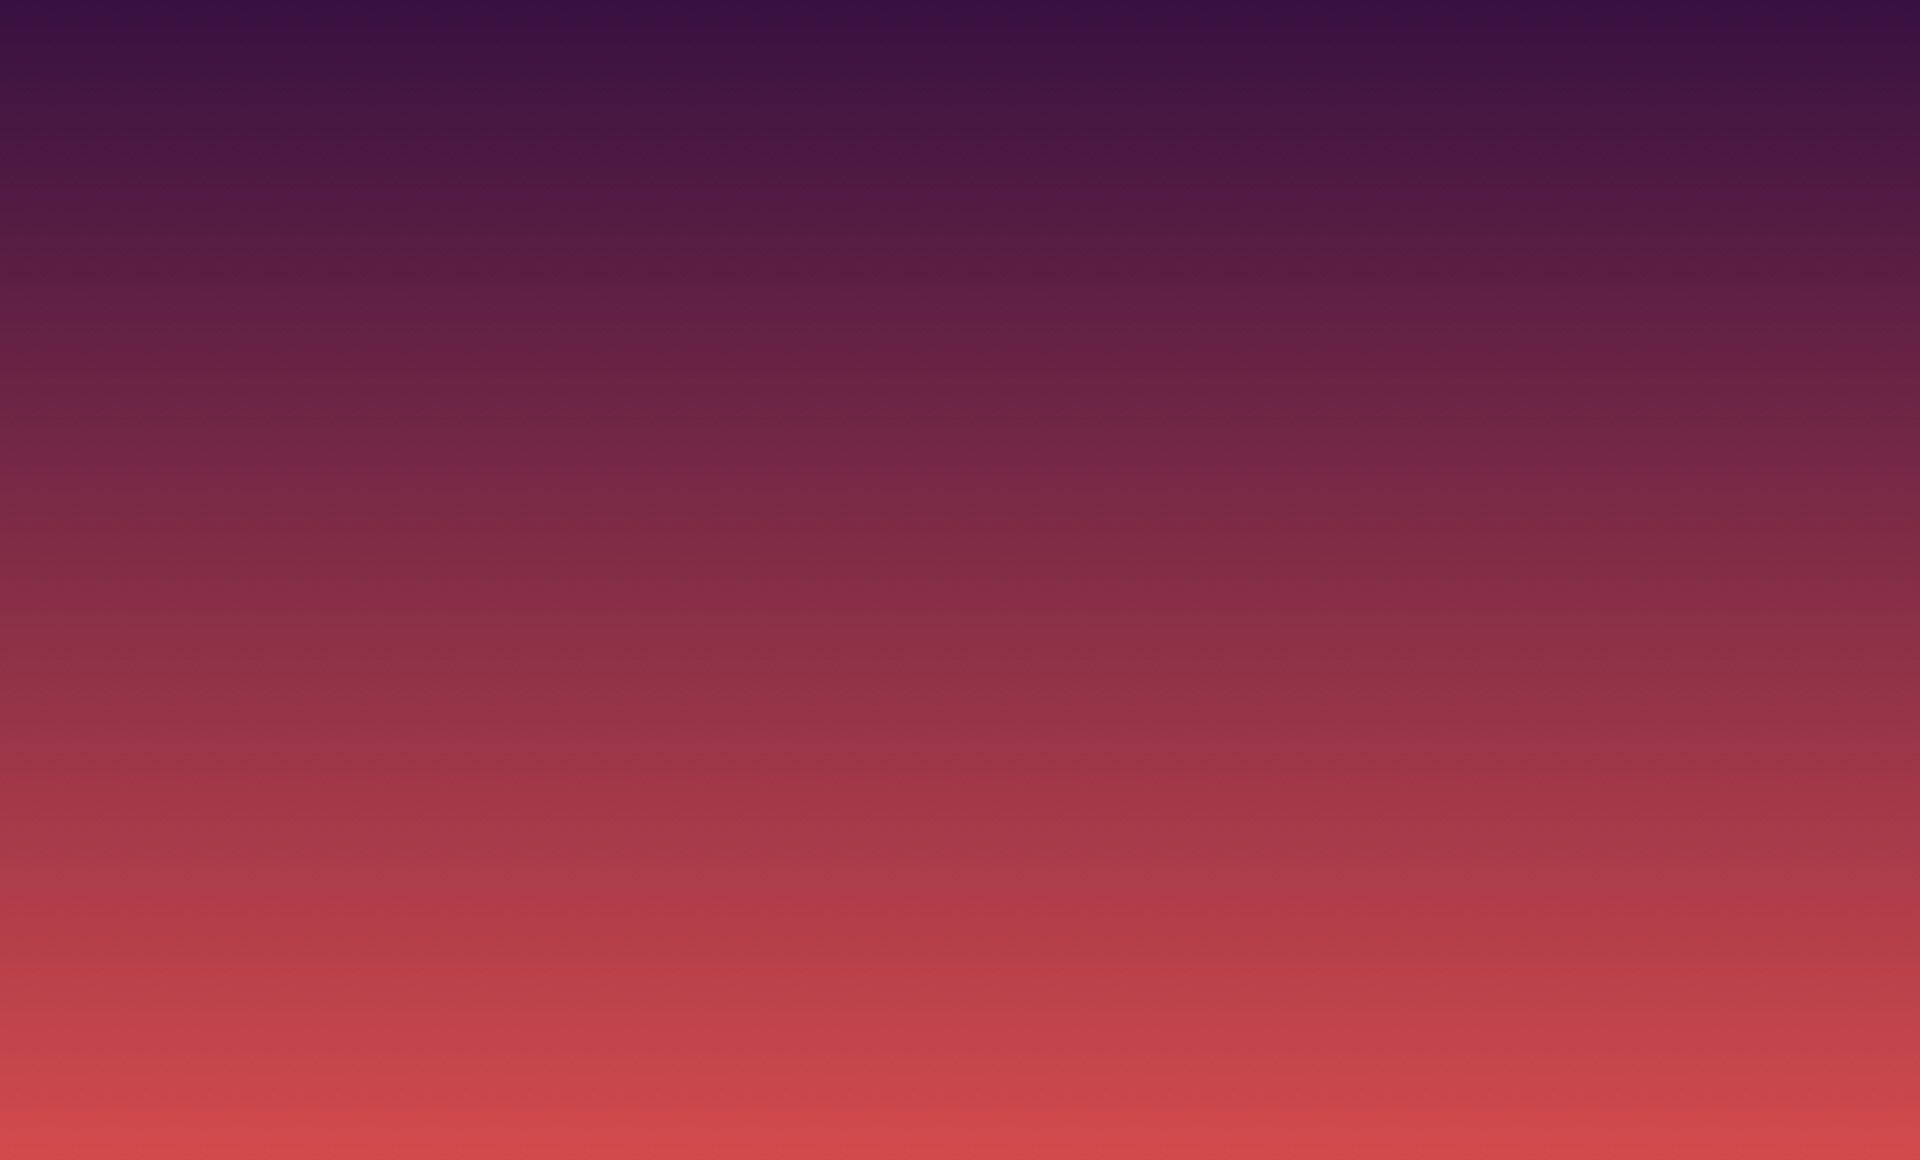
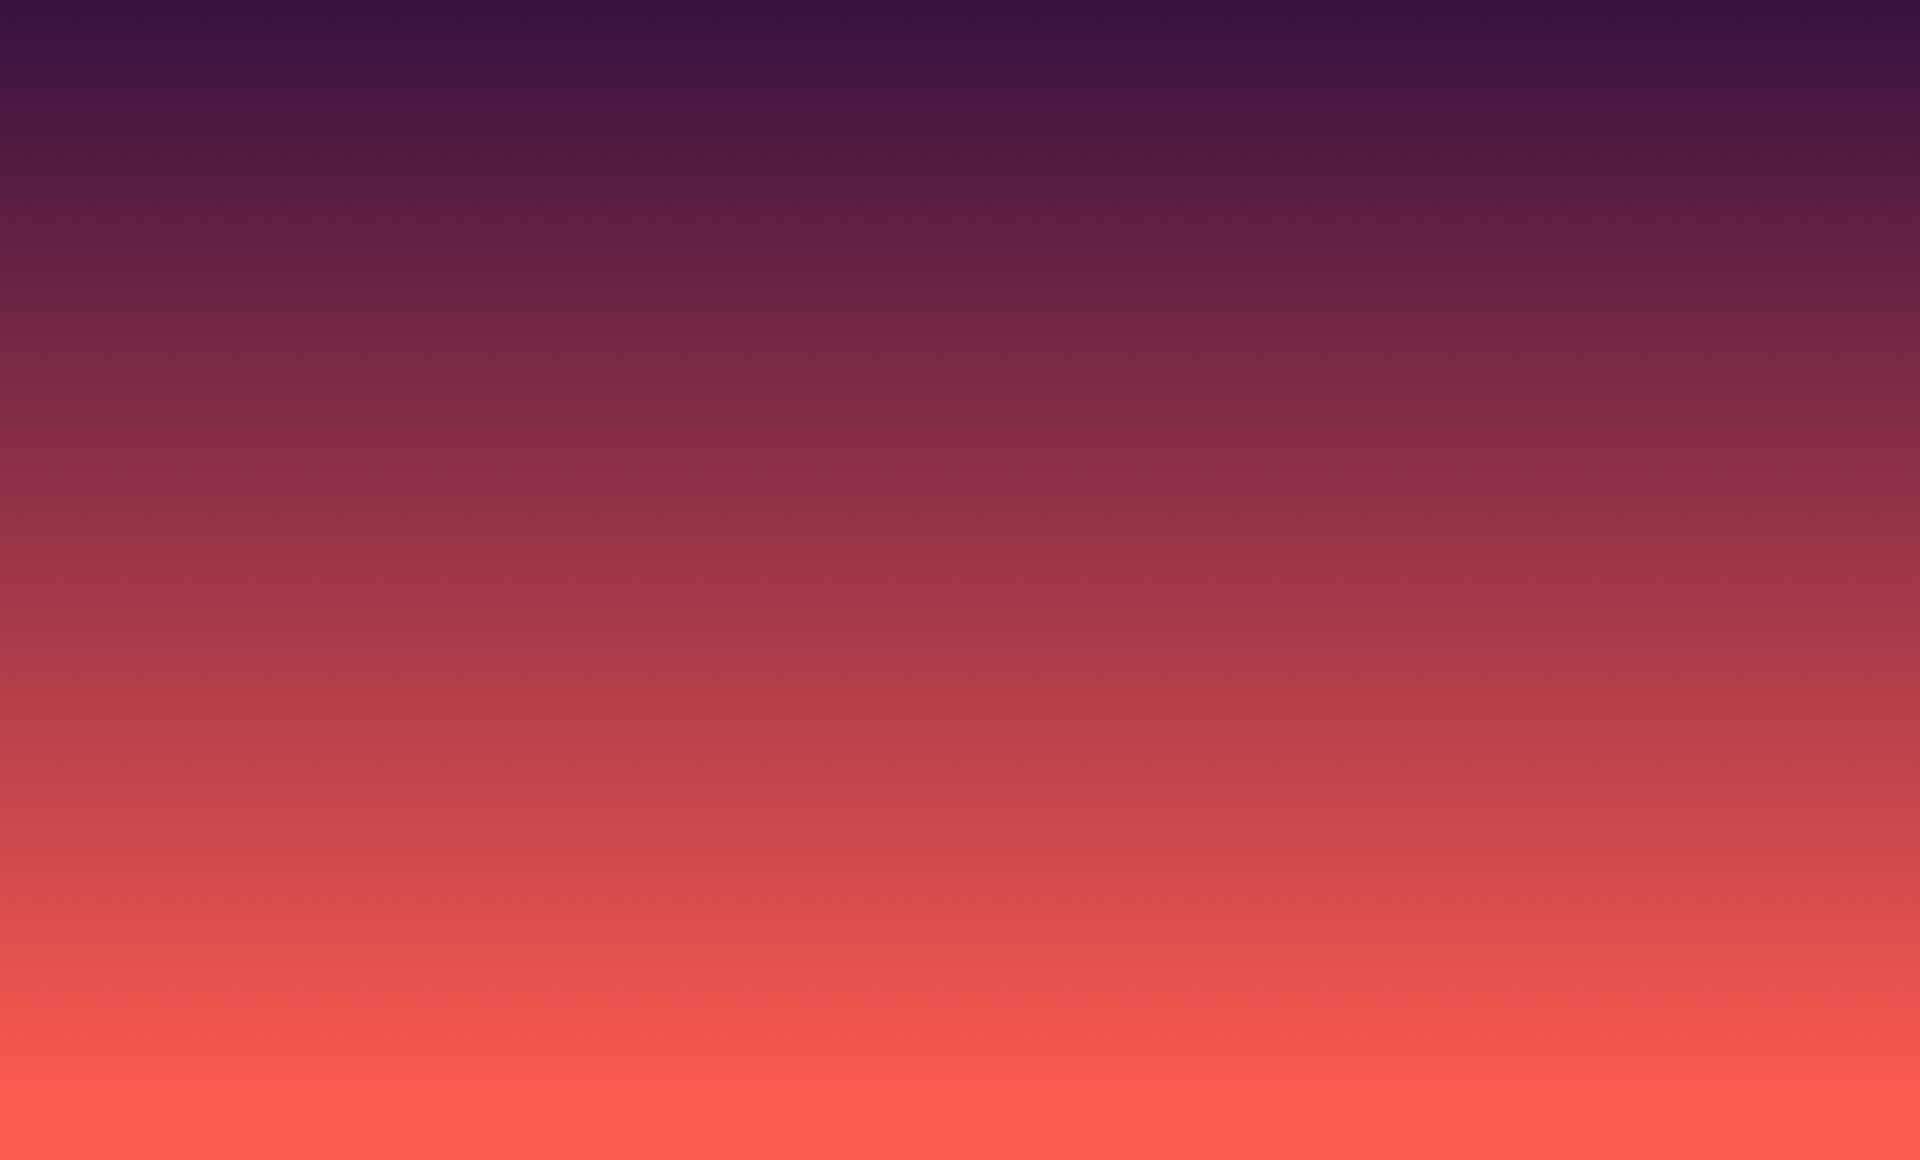
Update 2019-09-14T07:59:21.952Z

diff --git a/assets/css/style.css b/assets/css/style.css
@@ -22,12 +22,12 @@ body {
   flex-direction: column;
   direction: rtl;
   font-family: 'Sahel', serif;
-  background: #8a467d url("../img/bg.jpg") fixed; }
+  background: #fb5a4f url("../img/bg.jpg") fixed; }
   body.welcome {
     overflow-x: hidden;
     -webkit-font-smoothing: antialiased; }
     body.welcome #welcome {
-      background: #4a2359;
+      background: #371140;
       width: 56px;
       height: 56px;
       position: absolute;
@@ -41,7 +41,7 @@ body {
     body.welcome .splash {
       height: 0px;
       padding: 0px;
-      border: 130em solid #f9907a;
+      border: 130em solid #fb5a4f;
       position: fixed;
       left: 50%;
       top: 100%;
@@ -63,13 +63,13 @@ body {
             line-height: 64px; } }
 
 .purple-bg {
-  background-color: #4a2359 !important; }
+  background-color: #371140 !important; }
 
 .purple-bg-lighten {
   background-color: #8a467d !important; }
 
 .havij-bg {
-  background-color: #f9907a !important; }
+  background-color: #fb5a4f !important; }
 
 .justify-align {
   text-align: justify; }
@@ -122,7 +122,7 @@ blockquote {
   padding-left: 0;
   padding-right: 1.5rem;
   border-left: 0;
-  border-right: 5px solid #f9907a; }
+  border-right: 5px solid #fb5a4f; }
 
 h1, h2, h3, h4, h5, h6 {
   font-weight: 900; }
@@ -177,22 +177,22 @@ footer.page-footer {
 
 @keyframes moveUp {
   0% {
-    background: #4a2359;
+    background: #371140;
     top: 100%; }
   50% {
     top: 40%; }
   100% {
     top: 50%;
-    background: #f9907a; } }
+    background: #fb5a4f; } }
 
 @keyframes materia {
   0% {
-    background: #f9907a; }
+    background: #fb5a4f; }
   50% {
-    background: #f9907a;
+    background: #fb5a4f;
     top: 26px; }
   100% {
-    background: #4a2359;
+    background: #371140;
     width: 100%;
     height: 64px;
     border-radius: 0px;
@@ -210,4 +210,4 @@ footer.page-footer {
   100% {
     opacity: 0; } }
 
[2 lines of base64/hex data omitted]

diff --git a/index.htm b/index.htm
@@ -232,17 +232,16 @@
 
                 <div class="center-align download-btns">
 
-                    <a href="https://apps.apple.com/app/apple-store/id1476429715?pt=120213483&ct=Landing%20Page&mt=8"
-                       onclick="gtag_report_conversion('https://apps.apple.com/app/apple-store/id1476429715?pt=120213483&ct=Landing%20Page&mt=8')">
-                        <img src="assets/img/btn/appstore.jpg?v=3.0.2"
+                    <a href="https://redirect.appmetrica.yandex.com/serve/746406079151255257"
+                       onclick="gtag_report_conversion('https://redirect.appmetrica.yandex.com/serve/746406079151255257')">
+                        <img src="assets/img/btn/sibapp.jpg?v=3.0.2"
                              alt="دکمه دانلود بازی کلماتیک برای iOS (آیفون)">
                     </a>
 
                     <a href="https://redirect.appmetrica.yandex.com/serve/25830091292424078"
                        onclick="gtag_report_conversion('https://redirect.appmetrica.yandex.com/serve/25830091292424078')">
-                        <img src="assets/img/btn/playstore.jpg?v=3.0.2" alt="دکمه بازی کلماتیک برای اندروید">
+                        <img src="assets/img/btn/cafebazaar.jpg?v=3.0.2" alt="دکمه بازی کلماتیک برای اندروید">
                     </a>
-
 
                 </div>
 
